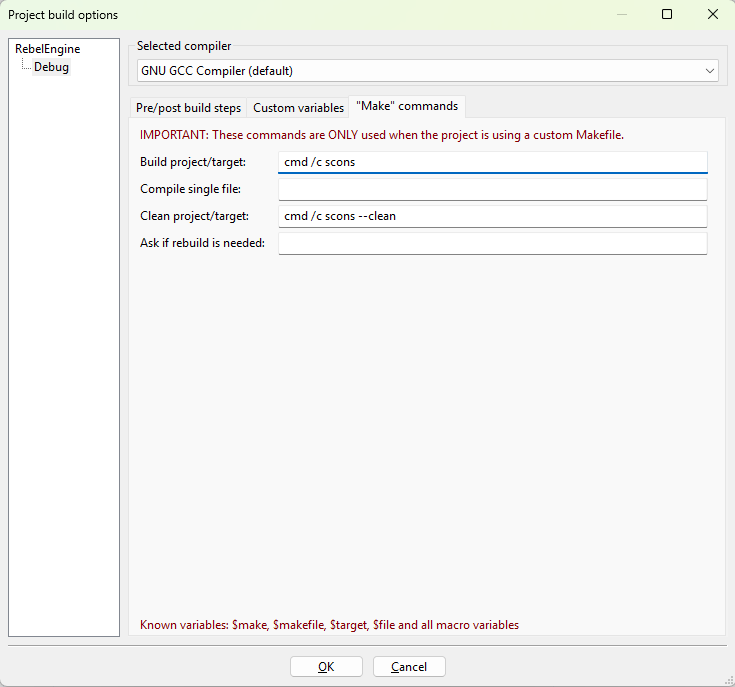
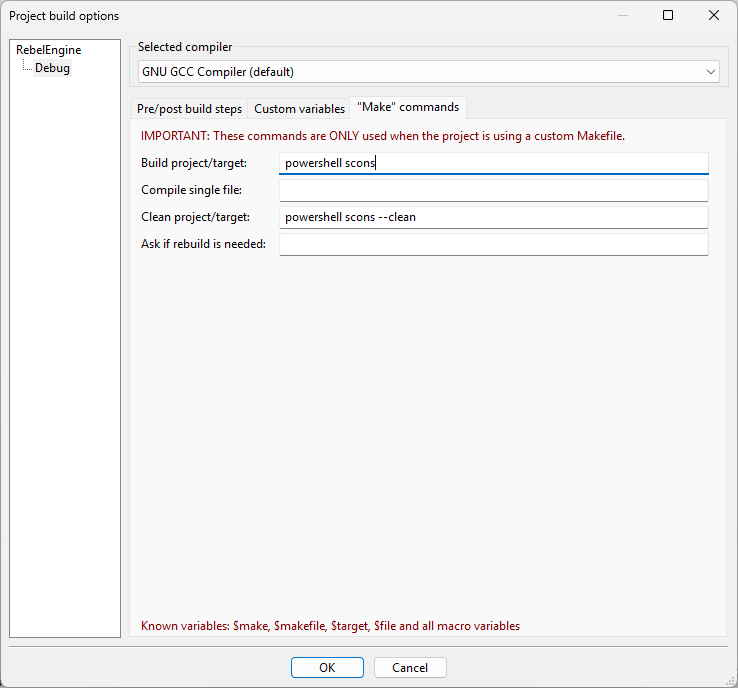
Update configuring Code::Blocks IDE on Windows

diff --git a/development/configuring_an_ide/code_blocks.rst b/development/configuring_an_ide/code_blocks.rst
@@ -145,28 +145,47 @@ Right-click on the **RebelProject** project and select **Build Options…**.
 
    Project build options…
 
-Select the **"Make" commands** tab.
-Remove all the existing commands for all the build targets.
-For each build target enter the **SCons** command for creating the desired build in the **Build project/target** field.
-The minimum is ``scons``.
-For details on the **SCons** build options,
-see :doc:`/development/compiling/introduction_to_the_buildsystem`.
-It's also useful to add the ``scons --clean`` command in the **Clean project/target** field.
+.. tabs::
 
-.. figure:: img/code-blocks-build-make.png
-   :figclass: figure-w480
-   :align: center
+   .. tab:: Linux
 
-   "Make" commands: Build: "scons", Clean: "scons --clean"
+      Select the **"Make" commands** tab.
+      Remove all the existing commands for all the build targets.
+      For each build target enter the **SCons** command for creating the desired build in the **Build project/target** field.
+      For details on the **SCons** build options,
+      see :doc:`/development/compiling/introduction_to_the_buildsystem`.
+      The minimum is ``scons``.
+      It's also useful to add the ``scons --clean`` command in the **Clean project/target** field.
 
-If you're using Windows,
-all the commands need to be preceded with ``cmd /c`` to initialize the command interpreter.
+      .. figure:: img/code-blocks-build-make.png
+         :figclass: figure-w480
+         :align: center
 
-.. figure:: img/code-blocks-windows-build-options.png
-   :figclass: figure-w480
-   :align: center
+         "Make" commands: Build: "scons", Clean: "scons --clean"
 
-   Windows "Make" commands: Build: "cmd /c scons", Clean: "cmd /c scons --clean"
+      Click **OK** to save the changes.
+
+   .. tab:: Windows
+
+      On Windows, SCons needs to run in a shell.
+      You can use either PowerShell (``powershell``) or the Command Prompt (``cmd /c``).
+      We recommend using PowerShell.
+
+      Select the **"Make" commands** tab.
+      Remove all the existing commands for all the build targets.
+      For each build target enter ``powershell`` with the **SCons** command for creating the desired build in the **Build project/target** field.
+      For details on the **SCons** build options,
+      see :doc:`/development/compiling/introduction_to_the_buildsystem`.
+      The minimum is ``powershell scons``.
+      It's also useful to add the ``powershell scons --clean`` command in the **Clean project/target** field.
+
+      .. figure:: img/code-blocks-windows-build-options.png
+         :figclass: figure-w480
+         :align: center
+
+         "Make" commands: Build: "powershell scons", Clean: "powershell scons --clean"
+
+      Click **OK** to save the changes.
 
 Code::Blocks should now be configured to build Rebel Engine.
 You can either select **Build > Build**, click the gear button, or press :kbd:`Ctrl+F9`.
